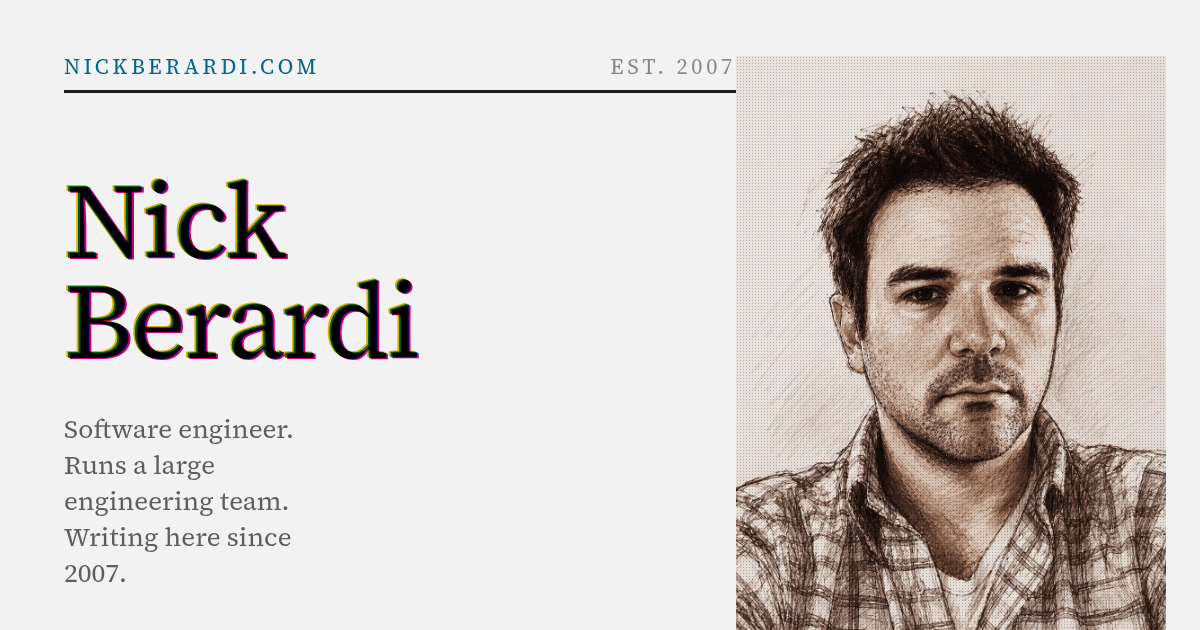
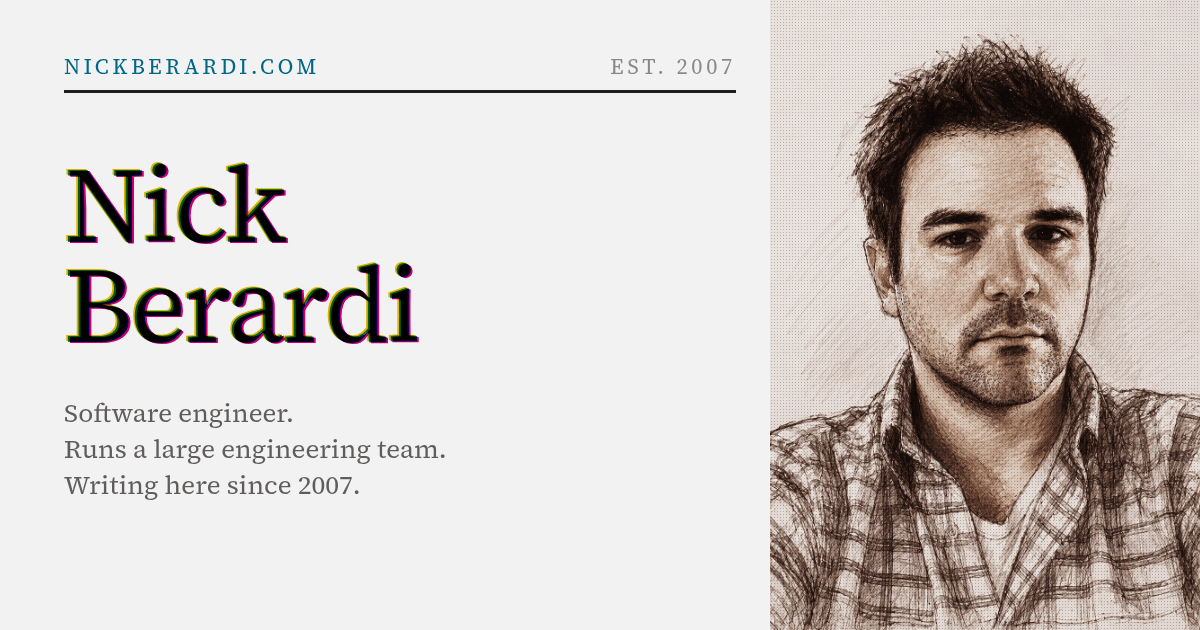
Fix default OG card: portrait clipping bug, tagline line breaks
The portrait figure has an explicit height:630px (the full card height,
per the 1a prototype), but I'd put the card's padding on the grid
container (.og-default) instead of the text column only like the
prototype does. That inset the portrait's grid track too, so its 630px
box started at y=56 instead of y=0 and ran 56px past the card's bottom
edge — silently clipped there by the card's overflow:hidden. Moved the
padding to .og-default-main (the text column) to match; the portrait
now spans the full 0-630px card height as it did in every locked comp.
Caught by measuring the rendered box, not by re-reading the CSS — same
class of bug as the .og-card/.og-post merge fix on the post cards.

Also sets the tagline as three explicit lines (one <br> per sentence)
instead of letting it wrap wherever 20ch happened to break it, per
request, and widens its max-width so those lines don't wrap again.

Regenerated static/og-default.png.

Claude-Session: https://claude.ai/code/session_01CNjQYmRX3Es96E7GuW4rpD

diff --git a/assets/css/og-card.css b/assets/css/og-card.css
@@ -62,10 +62,15 @@ html, body { margin: 0; padding: 0; }
 .cmyk .print img { width: 100%; height: 100%; display: block; object-fit: cover; }
 
 /* ---- 1a: site default card ---- */
-.og-default { padding: 56px 34px 48px 64px; display: grid; grid-template-columns: 1fr 430px; height: 100%; }
-.og-default-main { display: flex; flex-direction: column; justify-content: space-between; }
+/* Padding lives on the text column only, not the grid container — the
+   portrait's height:630px assumes an unpadded track (matching the
+   prototype's own structure). Padding on .og-default itself would inset
+   the portrait's row too, pushing its 630px box past the card's bottom
+   edge and clipping it there. */
+.og-default { display: grid; grid-template-columns: 1fr 430px; height: 100%; }
+.og-default-main { padding: 56px 34px 48px 64px; display: flex; flex-direction: column; justify-content: space-between; }
 .og-default-top { display: flex; justify-content: space-between; align-items: baseline; }
 .og-default-copy { margin: auto 0; }
 .og-wordmark { font-size: 106px; letter-spacing: -.032em; line-height: .94; margin-bottom: 26px; }
-.og-tagline { font-size: 26px; line-height: 1.38; max-width: 20ch; margin: 0; color: color-mix(in srgb, var(--color-text) 70%, transparent); }
+.og-tagline { font-size: 26px; line-height: 1.38; max-width: 32ch; margin: 0; color: color-mix(in srgb, var(--color-text) 70%, transparent); }
 .og-default-portrait { margin: 0; height: 630px; width: 430px; }

diff --git a/layouts/index.ogcard.html b/layouts/index.ogcard.html
@@ -37,7 +37,7 @@
         <span class="plate plate-m" aria-hidden="true">Nick<br>Berardi</span>
         <span class="plate plate-y" aria-hidden="true">Nick<br>Berardi</span>
       </div>
-      <p class="og-tagline">Software engineer. Runs a large engineering team. Writing here since 2007.</p>
+      <p class="og-tagline">Software engineer.<br>Runs a large engineering team.<br>Writing here since 2007.</p>
     </div>
   </div>
   <figure class="cmyk og-default-portrait">
